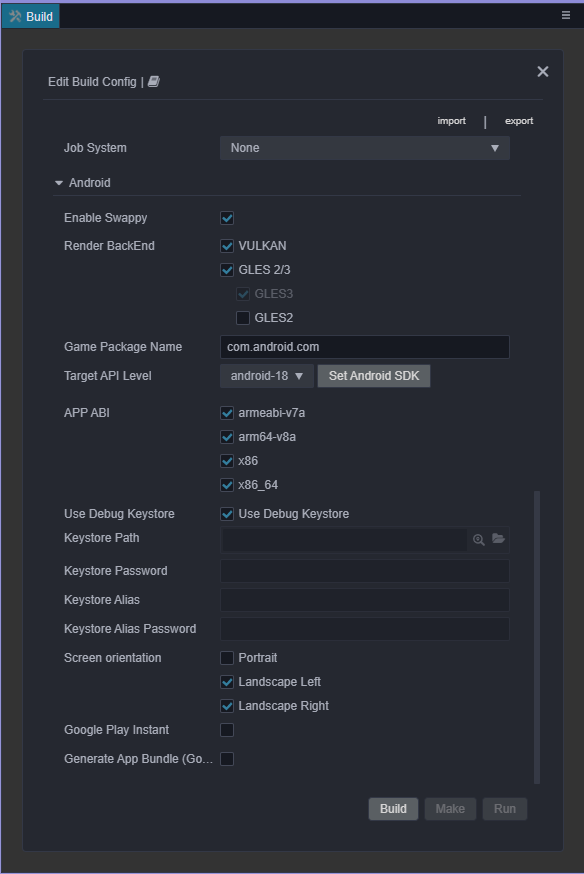
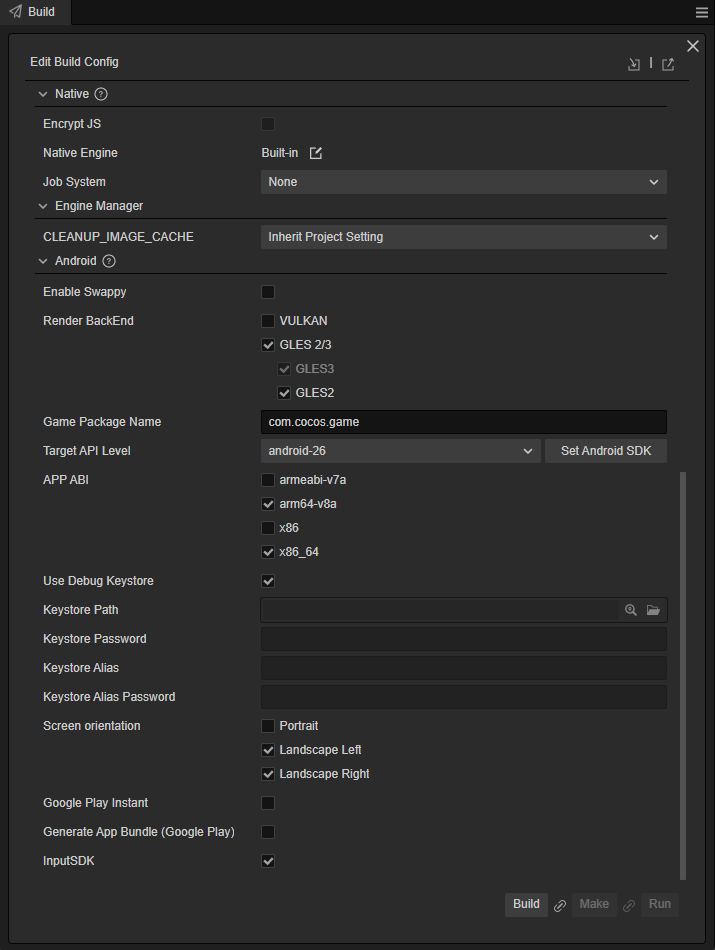
add input sdk

diff --git a/en/editor/publish/gpg-input-sdk.md b/en/editor/publish/gpg-input-sdk.md
@@ -1,0 +1,151 @@
+# Integrating Input SDK
+
+The Input SDK provides a unified interface that allows players to easily find the mouse and keyboard bindings for your game on Google Play Games for PC, thereby enhancing their gaming experience.
+
+## Prerequisites
+
+If you are using Input SDK on a new Android build, simply check the Input SDK option in the build panel.
+
+If the Android project was built previously, you will need to manually add the following code to the `native/engine/android/app/build.gradle` file.
+
+```gradle
+dependencies {
+  implementation 'com.google.android.libraries.play.games:inputmapping:1.0.0-beta'
+  ...
+}
+```
+
+## Create a the class named `MyInputMapProvider`.
+
+Create a new file `MyInputMapProvider.java` which contains the following code:
+
+```java
+    public class MyInputMapProvider implements InputMappingProvider {
+        public enum InputEventIds {
+            JUMP,
+            LEFT,
+            RIGHT,
+            USE,
+            SPECIAL_JUMP,
+            SPECIAL_DUCK,
+            CMB_MOVE,
+            CMB_DASH,
+            CMB_WAYPOINT
+        }
+
+        @Override
+        public InputMap onProvideInputMap() {
+            InputAction jumpInputAction = InputAction.create(
+                    getString(R.string.key_jump),
+                    InputEventIds.JUMP.ordinal(),
+                    InputControls.create(
+                            Collections.singletonList(KeyEvent.KEYCODE_SPACE),
+                            Collections.emptyList()
+                    )
+            );
+            InputAction leftAction = InputAction.create(
+                    getString(R.string.key_Left),
+                    InputEventIds.LEFT.ordinal(),
+                    InputControls.create(
+                            Collections.singletonList(KeyEvent.KEYCODE_DPAD_LEFT),
+                            Collections.emptyList()
+                    )
+            );
+            InputAction rightAction = InputAction.create(
+                    getString(R.string.key_Right),
+                    InputEventIds.RIGHT.ordinal(),
+                    InputControls.create(
+                            Collections.singletonList(KeyEvent.KEYCODE_DPAD_RIGHT),
+                            Collections.emptyList()
+                    )
+            );
+
+            InputAction cmbMove = InputAction.create(
+                    getString(R.string.key_Move),
+                    InputEventIds.CMB_MOVE.ordinal(),
+                    InputControls.create(
+                            Collections.emptyList(),
+                            Collections.singletonList(InputControls.MOUSE_RIGHT_CLICK)
+                    )
+            );
+            InputAction cmbDash = InputAction.create(
+                    getString(R.string.key_Dash),
+                    InputEventIds.CMB_DASH.ordinal(),
+                    InputControls.create(
+                            Arrays.asList(KeyEvent.KEYCODE_SHIFT_LEFT, KeyEvent.KEYCODE_SPACE),
+                            Collections.emptyList()
+                    )
+            );
+            InputAction cmbWaypoint = InputAction.create(
+                    getString(R.string.key_Waypoint),
+                    InputEventIds.CMB_WAYPOINT.ordinal(),
+                    InputControls.create(
+                            Collections.singletonList(KeyEvent.KEYCODE_SHIFT_LEFT),
+                            Collections.singletonList(InputControls.MOUSE_RIGHT_CLICK)
+                    )
+            );
+            InputGroup movementInputGroup = InputGroup.create(
+                    getString(R.string.key_BasicMove),
+                    Arrays.asList(jumpInputAction, leftAction, rightAction, cmbMove, cmbDash, cmbWaypoint)
+            );
+            return InputMap.create(
+                    Arrays.asList(movementInputGroup),
+                    MouseSettings.create(true, true)
+            );
+        }
+    }
+
+```
+
+## Add binding names for keys
+
+Define key code names in the `res/values/strings.xml` file to enable internationalization of the app. These descriptions will be used in the previous steps to provide context and clarity for the user when mapping input events to corresponding actions.
+
+```xml
+<resources>
+    ...
+    <string name="key_jump">Jump</string>
+    <string name="key_Left">Left</string>
+    <string name="key_Right">Right</string>
+    <string name="key_Move">Move</string>
+    <string name="key_Dash">Dash</string>
+    <string name="key_Waypoint">Add Waypoint</string>
+    <string name="key_BasicMove">Basic Movement</string>
+</resources>
+```
+
+## Register `InputMapping`
+
+To register the `InputMapping`, modify `AppActivity.java` located in `native\engine\android\app\src\main\cocos\game` by adding the necessary code.
+
+```java
+    ...
+    @Override
+    protected void onCreate(Bundle savedInstanceState) {
+        super.onCreate(savedInstanceState);
+        ...
+        
+        InputMappingClient inputMappingClient = Input.getInputMappingClient(this);
+        inputMappingClient.setInputMappingProvider(new MyInputMapProvider());
+    }
+    ...
+
+    @Override
+    protected void onDestroy() {
+        InputMappingClient inputMappingClient = Input.getInputMappingClient(this);
+        inputMappingClient.clearInputMappingProvider();
+
+        super.onDestroy();
+        ...
+    }
+   
+```
+## Test Result
+
+To bring up the page, use Shift + Tab while running on the HPE emulator provided by Google Play Games.
+
+![key codes](./publish-native/gpg-input-sdk-keys.png)
+
+
+
+Refer to the [official documentation](https://developer.android.com/games/playgames/input-sdk-start) of the Input SDK for more details.

diff --git a/zh/editor/publish/gpg-input-sdk.md b/zh/editor/publish/gpg-input-sdk.md
@@ -1,0 +1,153 @@
+# 集成 Input SDK
+
+Input SDK提供了一个统一的界面，让玩家在 Google Play Games For PC 上方便地找到游戏的鼠标和键盘绑定，从而提升玩家的游戏体验。 
+
+
+## 准备工作
+
+如果你要在一个全新的 Android 构建上使用 Input SDK, 只需要在构建面板上勾选 Input SDK 选项. 
+
+如果这个 Anrdoid 工程是之前构建的, 就需要手动在 文件 `native/engine/android/app/build.gradle` 中添加下面的代码
+
+```gradle
+dependencies {
+  implementation 'com.google.android.libraries.play.games:inputmapping:1.0.0-beta'
+  ...
+}
+```
+
+
+## 添加 InputMapProvider 实现
+
+新建类文件 `MyInputMapProvider.java`
+
+```java
+    public class MyInputMapProvider implements InputMappingProvider {
+        public enum InputEventIds {
+            JUMP,
+            LEFT,
+            RIGHT,
+            USE,
+            SPECIAL_JUMP,
+            SPECIAL_DUCK,
+            CMB_MOVE,
+            CMB_DASH,
+            CMB_WAYPOINT
+        }
+
+        @Override
+        public InputMap onProvideInputMap() {
+            InputAction jumpInputAction = InputAction.create(
+                    getString(R.string.key_jump),
+                    InputEventIds.JUMP.ordinal(),
+                    InputControls.create(
+                            Collections.singletonList(KeyEvent.KEYCODE_SPACE),
+                            Collections.emptyList()
+                    )
+            );
+            InputAction leftAction = InputAction.create(
+                    getString(R.string.key_Left),
+                    InputEventIds.LEFT.ordinal(),
+                    InputControls.create(
+                            Collections.singletonList(KeyEvent.KEYCODE_DPAD_LEFT),
+                            Collections.emptyList()
+                    )
+            );
+            InputAction rightAction = InputAction.create(
+                    getString(R.string.key_Right),
+                    InputEventIds.RIGHT.ordinal(),
+                    InputControls.create(
+                            Collections.singletonList(KeyEvent.KEYCODE_DPAD_RIGHT),
+                            Collections.emptyList()
+                    )
+            );
+
+            InputAction cmbMove = InputAction.create(
+                    getString(R.string.key_Move),
+                    InputEventIds.CMB_MOVE.ordinal(),
+                    InputControls.create(
+                            Collections.emptyList(),
+                            Collections.singletonList(InputControls.MOUSE_RIGHT_CLICK)
+                    )
+            );
+            InputAction cmbDash = InputAction.create(
+                    getString(R.string.key_Dash),
+                    InputEventIds.CMB_DASH.ordinal(),
+                    InputControls.create(
+                            Arrays.asList(KeyEvent.KEYCODE_SHIFT_LEFT, KeyEvent.KEYCODE_SPACE),
+                            Collections.emptyList()
+                    )
+            );
+            InputAction cmbWaypoint = InputAction.create(
+                    getString(R.string.key_Waypoint),
+                    InputEventIds.CMB_WAYPOINT.ordinal(),
+                    InputControls.create(
+                            Collections.singletonList(KeyEvent.KEYCODE_SHIFT_LEFT),
+                            Collections.singletonList(InputControls.MOUSE_RIGHT_CLICK)
+                    )
+            );
+            InputGroup movementInputGroup = InputGroup.create(
+                    getString(R.string.key_BasicMove),
+                    Arrays.asList(jumpInputAction, leftAction, rightAction, cmbMove, cmbDash, cmbWaypoint)
+            );
+            return InputMap.create(
+                    Arrays.asList(movementInputGroup),
+                    MouseSettings.create(true, true)
+            );
+        }
+    }
+
+```
+
+## 添加按键描述的
+
+在 `res\values\strings.xml` 中定义用于国际化的文本，以供前面步骤中使用。
+
+```xml
+<resources>
+    ...
+    <string name="key_jump">Jump</string>
+    <string name="key_Left">Left</string>
+    <string name="key_Right">Right</string>
+    <string name="key_Move">Move</string>
+    <string name="key_Dash">Dash</string>
+    <string name="key_Waypoint">Add Waypoint</string>
+    <string name="key_BasicMove">Basic Movement</string>
+</resources>
+```
+
+## 修改 `AppActivity` 注册 `InputMapping`
+
+`AppActivity.java` 位于 `native\engine\android\app\src\main\cocos\game `，需做如下修改。
+
+```java
+    ...
+    @Override
+    protected void onCreate(Bundle savedInstanceState) {
+        super.onCreate(savedInstanceState);
+        ...
+        
+        InputMappingClient inputMappingClient = Input.getInputMappingClient(this);
+        inputMappingClient.setInputMappingProvider(new MyInputMapProvider());
+    }
+    ...
+
+    @Override
+    protected void onDestroy() {
+        InputMappingClient inputMappingClient = Input.getInputMappingClient(this);
+        inputMappingClient.clearInputMappingProvider();
+
+        super.onDestroy();
+        ...
+    }
+   
+```
+## 测试效果
+
+在 Google Play Games 提供的 HPE 模拟器中运行, 通过 Shift + Tab 调出页面
+
+![key codes](./publish-native/gpg-input-sdk-keys.png)
+
+
+
+更多的细节请参考 [INput SDK 官方文档](https://developer.android.com/games/playgames/input-sdk-start)

diff --git a/en/editor/publish/native-options.md b/en/editor/publish/native-options.md
@@ -127,6 +127,11 @@ To deploy the product on Google Play Instant, users can enable this property and
 
 Enable this property to build the release package in an Android App Bundles format. Please refer to Android’s [official documentation](https://developer.android.com/guide/app-bundle/) on the subject for more information.
 
+#### Input SDK
+Integrate the Input SDK for Google Play Games to allow players to easily find mouse or keyboard key bindings defined in games and use the Shift + Tab shortcut to quickly access them during gameplay.
+
+After integrating the Input SDK, developers need to call the appropriate API to configure it. Please refer to the [Quick Tutorial](./gpg-input-sdk.md) or the [Input SDK Documentation](https://developer.android.com/games/playgames/input-sdk) for more information.
+
 ### Build for Windows
 
 Build options for the Windows include **Render BackEnd** and **Target Platform**.

diff --git a/en/SUMMARY.md b/en/SUMMARY.md
@@ -111,6 +111,7 @@
         - [Publish for the Huawei HarmonyOS](editor/publish/publish-huawei-ohos.md)
         - [Setup Native Development](editor/publish/setup-native-development.md)
         - [Debugging JavaScript on Native Platforms](editor/publish/debug-jsb.md)
+        - [Integrating Input SDK](editor/publish/gpg-input-sdk.md)
     - [Publish to Mini Game Platforms](editor/publish/publish-mini-game.md)
         - [Publish to HUAWEI AppGallery Connect](editor/publish/publish-huawei-agc.md)
         - [Publish to Alipay Mini Game](editor/publish/publish-alipay-mini-game.md)

diff --git a/zh/SUMMARY.md b/zh/SUMMARY.md
@@ -117,6 +117,7 @@
         - [发布 HUAWEI HarmonyOS 应用](editor/publish/publish-huawei-ohos.md)
         - [安装配置原生环境](editor/publish/setup-native-development.md)
         - [原生平台 JavaScript 调试](editor/publish/debug-jsb.md)
+        - [集成 Input SDK](editor/publish/gpg-input-sdk.md)
     - [发布到小游戏平台](editor/publish/publish-mini-game.md)
         - [发布到 HUAWEI AppGallery Connect](editor/publish/publish-huawei-agc.md)
         - [发布到支付宝小游戏](editor/publish/publish-alipay-mini-game.md)
